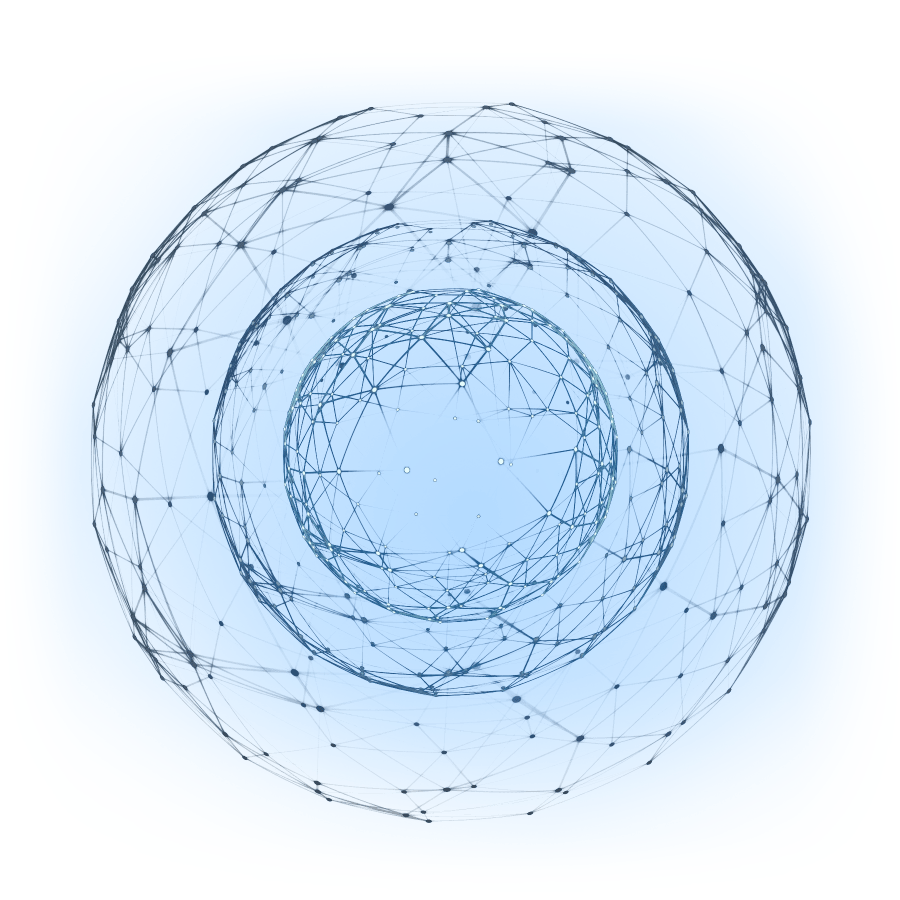
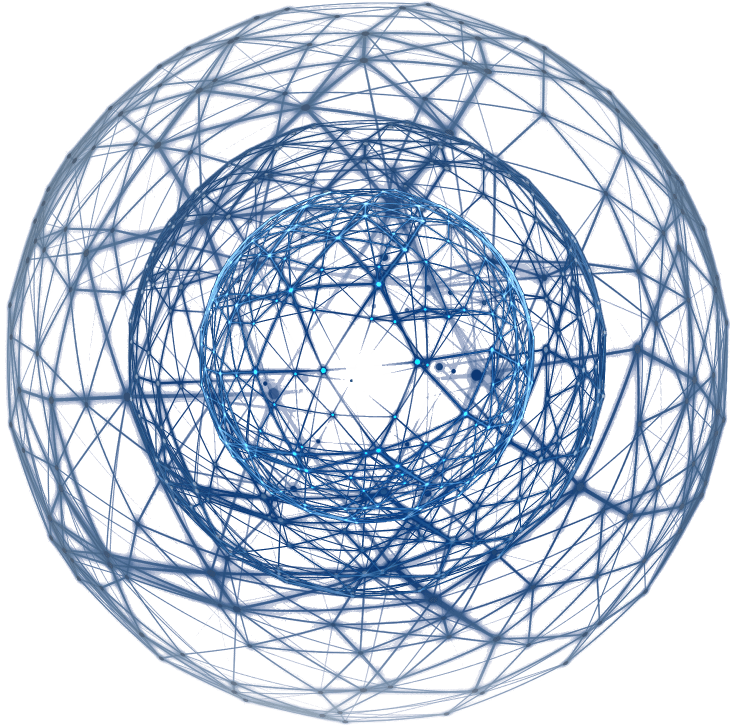
otop: Have another go at replicating the globe for human leaf #107

diff --git a/OZprivate/rawJS/OZTreeModule/src/projection/layout/otop/leaf_layout.js b/OZprivate/rawJS/OZTreeModule/src/projection/layout/otop/leaf_layout.js
@@ -146,13 +146,25 @@ class LeafLayout extends LeafLayoutBase {
           return;
       }
 
+      // Add a blue wash underneath, to hide background lights
+      let s = ArcShape.create();
+      s.x = this.get_leaf_x(node);
+      s.y = this.get_leaf_y(node);
+      s.r = this.get_fullleaf_r(node) * 1.2;
+      s.circle = true;
+      s.do_fill = true;
+      s.do_stroke = false;
+      s.fill.color = { from: 'rgba(0, 15, 58, 0.8)', start: this.get_fullleaf_r(node) * 0.5 };
+      s.height = 0;
+      shapes.push(s);
+
       // Try and fetch the background image, draw it if available, and we are zoomed in enough.
       let imageObject = get_image('otop:otop-human-leaf.png', 'otop:otop-human-leaf.png');
       imageObject = image_ready(imageObject) ? imageObject : null;
       if (this.get_fullleaf_r(node) > 100 && imageObject) {
           let s = ImageShape.create();
           s.img = imageObject;
-          s.w = s.h = this.get_fullleaf_r(node) * 2;
+          s.w = s.h = this.get_fullleaf_r(node) * 1.63;
           s.x = this.get_leaf_x(node) - (s.w / 2);
           s.y = this.get_leaf_y(node) - (s.w / 2);
           s.height = 0;
@@ -201,14 +213,14 @@ class LeafLayout extends LeafLayoutBase {
       }.bind(this));
 
       // Add a blue wash across the top
-      let s = ArcShape.create();
+      s = ArcShape.create();
       s.x = this.get_leaf_x(node);
       s.y = this.get_leaf_y(node);
-      s.r = this.get_fullleaf_r(node) * 1.8;
+      s.r = this.get_fullleaf_r(node) * (window.otop_fg_r || 1.3);
       s.circle = true;
       s.do_fill = true;
       s.do_stroke = false;
-      s.fill.color = { from: 'rgba(27, 92, 175, 0.5)', start: this.get_fullleaf_r(node) * 0.8 };
+      s.fill.color = { from: 'rgba(27, 92, 175, 0.3)', start: this.get_fullleaf_r(node) * (window.otop_fg_start || 0.9) };
       s.height = 0;
       shapes.push(s);
 
